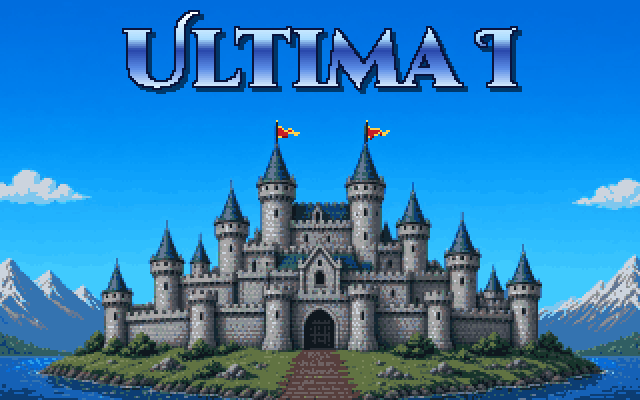
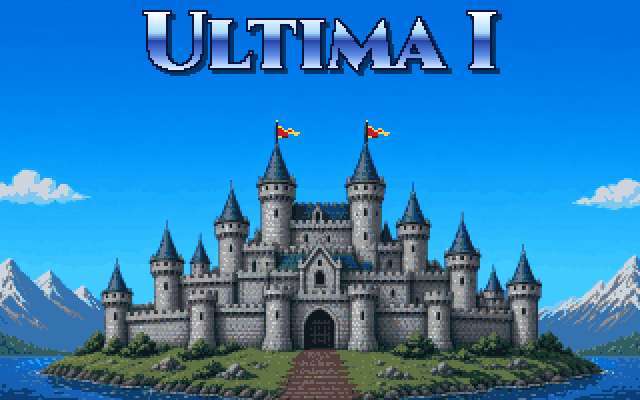
Batch 4 fixes: each castle pennant follows the original's random flag frame; Cinzel Black lettering (the I no longer reads as 1); CGA and Tandy keep their original castle; the character program's backdrop stands between key waits

Changed region(s): [[0.1875, 0.0, 0.8125, 0.24]]

diff --git a/crates/u1-assets/src/enhanced.rs b/crates/u1-assets/src/enhanced.rs
@@ -252,6 +252,10 @@ pub fn parse_id(section: &str) -> Option<ArtId> {
     }
 }
 
+/// The start-up castle picture's left flag is left of this column, its
+/// right flag right of it (original pixels).
+pub const CASTLE_SPLIT: usize = 160;
+
 /// The original-pixel size of each `screen.NAME` region (the pictures
 /// are this times the pack's scale).
 pub fn screen_size(name: &str) -> Option<(usize, usize)> {
@@ -796,7 +800,35 @@ pub fn compose(t: &Term, palette: &[[u8; 3]; 16], pack: &Pack, ms: u64) -> Vec<u
             space(&mut out, s, t, sc, pack, ms);
         }
     }
+    if let Some((id, x, y, w, h)) = t.backdrop {
+        if let Some(e) = pack.entries.get(&id) {
+            let op = crate::term::ArtOp { id, under: None, shift: 0, pos: None, x, y, w, h, px: Vec::new() };
+            backdrop(&mut out, s, t, &op, Pack::frame(e, 0, 1, ms));
+        }
+    }
     for op in &t.art {
+        if op.id == ArtId::Screen("castle") {
+            // The start-up castle: each flag shows the pack frame of the
+            // original's flag frame there (`pos` = left, right).
+            let Some(e) = pack.entries.get(&op.id) else { continue };
+            if !op.intact(t) {
+                continue;
+            }
+            let n = e.frames.len();
+            let (l, r) = op.pos.map_or((0, 0), |(l, r)| (usize::from(l) % n, usize::from(r) % n));
+            put(&mut out, &e.frames[l], 0, 0, 0);
+            if r != l {
+                let img = &e.frames[r];
+                let x0 = img.w * CASTLE_SPLIT / W;
+                for y in 0..img.h.min(H * s) {
+                    for x in x0..img.w.min(ow) {
+                        let src = (y * img.w + x) * 4;
+                        out[(y * ow + x) * 3..(y * ow + x) * 3 + 3].copy_from_slice(&img.px[src..src + 3]);
+                    }
+                }
+            }
+            continue;
+        }
         if op.id == ArtId::Screen("dungeon") {
             if let Some(sc) = &t.dscene {
                 if pack.entries.contains_key(&ArtId::Dun(dun::WALL)) && op.intact(t) {
@@ -947,6 +979,44 @@ file = "x.png"
         // A flag drawn after the mark: original again until re-marked.
         t.plot(0x7b, 0x37, 5);
         assert_ne!(px(&compose(&t, &EGA_PALETTE, &p, 0), 2, 5, 5), [9, 8, 7]);
+    }
+
+    #[test]
+    fn each_castle_flag_follows_the_originals_frame() {
+        let mut t = Term::new();
+        t.remap = Some([0; 16]);
+        let cols = [[10, 0, 0, 255], [0, 20, 0, 255], [0, 0, 30, 255]];
+        let mut i = 0;
+        let p = Pack::parse("[screen.castle]\nframes = [\"a.png\", \"b.png\", \"c.png\"]", |_| {
+            i += 1;
+            Ok(solid(640, 400, cols[i - 1]))
+        })
+        .unwrap();
+        t.mark(ArtId::Screen("castle"), None, 0, 0, 0, W, H);
+        t.art_pos((1, 2));
+        let out = compose(&t, &EGA_PALETTE, &p, 0);
+        assert_eq!(px(&out, 2, 2 * 100, 2 * 60), [0, 20, 0]);
+        assert_eq!(px(&out, 2, 2 * 190, 2 * 60), [0, 0, 30]);
+        // Same frames at any clock: the flags move only when the original's do.
+        assert_eq!(compose(&t, &EGA_PALETTE, &p, 12345), out);
+        t.art_pos((2, 2));
+        assert_eq!(px(&compose(&t, &EGA_PALETTE, &p, 0), 2, 2 * 100, 2 * 60), [0, 0, 30]);
+    }
+
+    #[test]
+    fn a_standing_backdrop_survives_redraws() {
+        let mut t = Term::new();
+        t.fill(0, 0, W - 1, H - 1, 0);
+        t.backdrop = Some((ArtId::Screen("menu"), 8, 8, 0x130, 0xb8));
+        let p = Pack::parse("[screen.menu]\nfile = \"m.png\"\nbehind = true", |_| Ok(solid(608, 368, [50, 40, 30, 255]))).unwrap();
+        // Drawing inside (which drops any noted region there) keeps it.
+        t.fill(10, 10, 0x12c, 0xbe, 0);
+        t.plot(100, 100, 15);
+        let out = compose(&t, &EGA_PALETTE, &p, 0);
+        assert_eq!(px(&out, 2, 2 * 50, 2 * 50), [50, 40, 30]);
+        assert_ne!(px(&out, 2, 2 * 100, 2 * 100), [50, 40, 30]);
+        t.backdrop = None;
+        assert_eq!(px(&compose(&t, &EGA_PALETTE, &p, 0), 2, 2 * 50, 2 * 50), [0, 0, 0]);
     }
 
     #[test]

diff --git a/crates/u1-assets/src/title.rs b/crates/u1-assets/src/title.rs
@@ -248,9 +248,10 @@ impl Intro<'_> {
         self.castle(t, io)
     }
 
-    /// `3e9`: one flag frame at x.
-    fn flag(&mut self, t: &mut Term, x: i32) {
-        let frame = o::FLAGS[(self.rand(1, 0xef) / 0x50).min(2) as usize];
+    /// `3e9`: one flag frame at x; returns which of the three it drew.
+    fn flag(&mut self, t: &mut Term, x: i32) -> u16 {
+        let k = (self.rand(1, 0xef) / 0x50).min(2);
+        let frame = o::FLAGS[k as usize];
         let (on, off) = if self.f.mode == 0 { (2 | RAW, 1 | RAW) } else { (0xa, 0xb) };
         for row in 0..7 {
             for col in 0..7 {
@@ -258,6 +259,7 @@ impl Intro<'_> {
                 t.plot(x + col as i32, 0x37 + row as i32, c);
             }
         }
+        k
     }
 
     /// `b65`: the castle picture with waving flags, about 17 s.
@@ -267,21 +269,27 @@ impl Intro<'_> {
             t.remap = Some(self.f.castle_remap());
         }
         t.px.copy_from_slice(&self.f.castle);
-        keep(t, "castle");
-        let mut key = false;
-        for _ in 0..100 {
-            io.pause(t, 3)?;
-            self.flag(t, 0x7b);
-            keep(t, "castle");
-            if io.poll_now(t)?.is_some() {
-                key = true;
-                break;
+        // The enhanced castle is an EGA picture: CGA and Tandy keep the
+        // original art (the pack has no picture for their castles).
+        let enh = self.f.mode == 1;
+        let mut shown = [0u16; 2];
+        let mark = |t: &mut Term, shown: [u16; 2]| {
+            if enh {
+                keep(t, "castle");
+                t.art_pos((shown[0], shown[1]));
             }
-            self.flag(t, 0xc4);
-            keep(t, "castle");
-            if io.poll_now(t)?.is_some() {
-                key = true;
-                break;
+        };
+        mark(t, shown);
+        let mut key = false;
+        'flags: for _ in 0..100 {
+            io.pause(t, 3)?;
+            for (i, x) in [0x7b, 0xc4].into_iter().enumerate() {
+                shown[i] = self.flag(t, x);
+                mark(t, shown);
+                if io.poll_now(t)?.is_some() {
+                    key = true;
+                    break 'flags;
+                }
             }
         }
         clear(t);

diff --git a/crates/u1-assets/src/gen.rs b/crates/u1-assets/src/gen.rs
@@ -258,8 +258,6 @@ impl<'a> Gen<'a> {
     fn key(&mut self, t: &mut Term, io: &mut dyn Io, colour: u8) -> IoResult<u8> {
         loop {
             self.cursor(t, colour);
-            // The inside of the border, for the enhanced pack's backdrop.
-            t.mark(ArtId::Screen("menu"), None, 0, 8, 8, 0x130, 0xb8);
             match io.poll_now(t)? {
                 None => io.pause(t, 3)?,
                 Some(k) => {
@@ -277,6 +275,10 @@ impl<'a> Gen<'a> {
     pub fn run(&mut self, t: &mut Term, io: &mut dyn Io) -> IoResult<GenEnd> {
         t.fill(0, 0, 0x13f, 0xc7, BLACK);
         self.border(t);
+        // The inside of the border, for the enhanced pack's backdrop: it
+        // stands through every screen of the menu, so none shows the
+        // original black first.
+        t.backdrop = Some((ArtId::Screen("menu"), 8, 8, 0x130, 0xb8));
         loop {
             let k = self.menu(t, io)?;
             match k {
@@ -421,7 +423,7 @@ impl<'a> Gen<'a> {
         }
         self.at(t, 11, 8, o::WAIT[0], w);
         self.at(t, 13, 10, o::WAIT[1], w);
-        t.mark(ArtId::Screen("loading"), None, 0, 8, 8, 0x130, 0x90);
+        t.backdrop = Some((ArtId::Screen("loading"), 8, 8, 0x130, 0x90));
     }
 
     fn stat(&self, i: usize) -> u16 {

diff --git a/crates/u1-assets/src/term.rs b/crates/u1-assets/src/term.rs
@@ -174,6 +174,11 @@ pub struct Term {
     pub dscene: Option<Box<crate::dview::DScene>>,
     /// The space view as pictures, for the enhanced renderer.
     pub sscene: Option<Box<SScene>>,
+    /// A standing backdrop for the enhanced renderer: the pack's
+    /// `behind` picture `id` shows wherever the rectangle (x, y, w, h) is
+    /// black, whatever is drawn there, until it is cleared (the character
+    /// program's screens, which redraw their insides between key waits).
+    pub backdrop: Option<(ArtId, usize, usize, usize, usize)>,
 }
 
 impl Default for Term {
@@ -191,7 +196,7 @@ impl Term {
 
     /// The same frame for a CGA (`cga`) or a 16-colour screen.
     pub fn with_cga(cga: bool) -> Self {
-        let mut t = Term { px: vec![0; W * H], col: 1, row: 24, pen: (0, 0), inverted: false, cga, blink_at: None, remap: None, art: Vec::new(), dscene: None, sscene: None };
+        let mut t = Term { px: vec![0; W * H], col: 1, row: 24, pen: (0, 0), inverted: false, cga, blink_at: None, remap: None, art: Vec::new(), dscene: None, sscene: None, backdrop: None };
         t.fill(0, 0, W - 1, H - 1, BLUE);
         t.fill(7, 7, 312, 152, WHITE);
         t.fill(VIEW.0, VIEW.1, VIEW.2, VIEW.3, BLACK);

diff --git a/docs/SPEC.md b/docs/SPEC.md
@@ -1428,16 +1428,24 @@ of the original game; the faithful 320×200 output (§3) stays the default.
   (renewed on every dissolve frame, after "Presents", after each text
   page and on the credits page) and `castle` for the castle picture. The
   castle op is renewed after each flag the original draws, so it stays
-  intact; with it, the pack's picture replaces the whole screen even
-  though the castle uses a palette remap, and the picture's own `frames`
-  (at `fps`) wave its flags instead of the original's random flag
-  frames. The character program (§17) records `menu` over the inside of
-  its border each time it waits for a key (after the cursor frame) and
-  `loading` inside the "please wait" box. `title`, `intro`, `menu` and
-  `loading` are meant as backdrops (`behind = true`), so every original
-  word, line and the logo stay exactly as drawn. Screens drawn between
-  waits (a stat being rolled, a roster being written) show the original
-  until the next wait.
+  intact, and carries which of the three flag frames the original chose
+  for the left and the right flag (its `pos`). With it, the pack's
+  picture replaces the whole screen even though the castle uses a
+  palette remap: the pack's frame N shows both pennants in the
+  original's flag frame N, and the left half of the screen (x < 160) is
+  taken from the left flag's frame, the right half from the right
+  flag's, so each pennant changes exactly when the original's does (no
+  clock). Only the EGA castle is noted: the pack's picture is an EGA
+  picture and, like every picture the pack has no version of, the CGA
+  and Tandy castles (their own pictures and colours) stay original. The
+  character program (§17) sets a standing *backdrop* (`menu` over the
+  inside of its border from its first screen; `loading` inside the
+  "please wait" box): unlike an op it is not dropped by drawing, and
+  shows wherever the region is black until replaced, so screens being
+  drawn between key waits (a stat being rolled, a roster being written)
+  keep it too. `title`, `intro`, `menu` and `loading` are backdrops
+  (`behind = true`), so every original word, line and the logo stay
+  exactly as drawn.
 * **Dungeon view.** The first-person view (§6) is still drawn as the
   original's lines. While drawing, the engine also notes each surface
   between two of the view's vertical edges (wall faces ahead and at the
@@ -1485,8 +1493,7 @@ of the original game; the faithful 320×200 output (§3) stays the default.
   Shots, exhaust, explosions and anything without a picture keep their
   original pixels, over the new background.
 * **Limitations.** The NIF reveal shows the original art until the
-  picture is complete. The castle picture's flags wave by the clock, not
-  in step with the original's random frame choice.
+  picture is complete.
 
 ## Sources
 

diff --git a/README.md b/README.md
@@ -293,8 +293,9 @@ frames of his fire spell, and a dim sunrise backdrop behind the closing
 text. The text boxes and the victory box stay original.
 
 Batch 4 (for review) covers the start-up screens: a new castle picture
-for the title with its own "Ultima I" lettering and two waving crimson
-pennants (three frames), a dim starry night behind the text title, a
+for the title with its own "Ultima I" lettering and two crimson
+pennants that wave exactly when the original's flags do (on EGA; the
+CGA and Tandy castles stay original), a dim starry night behind the text title, a
 dusk mountain panorama behind the Origin logo, "Presents", the two
 story pages and the credits, and a dark leather page behind the
 character menu and the "please wait" box. The Origin logo, every line
